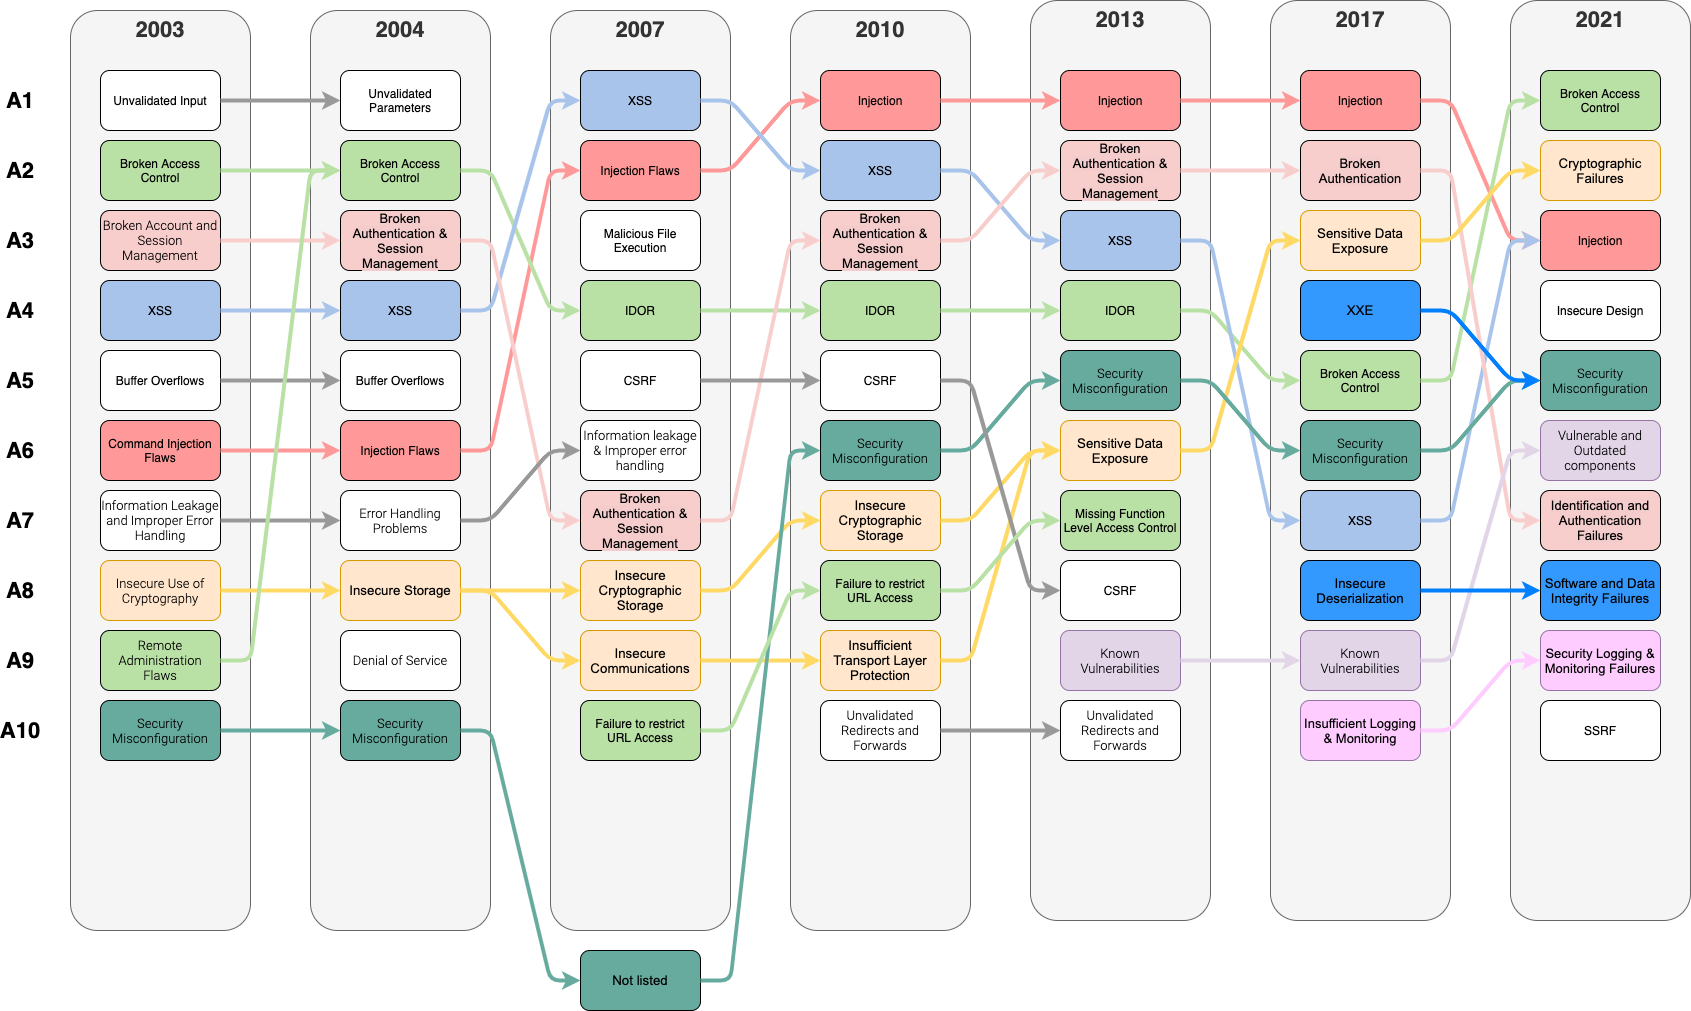
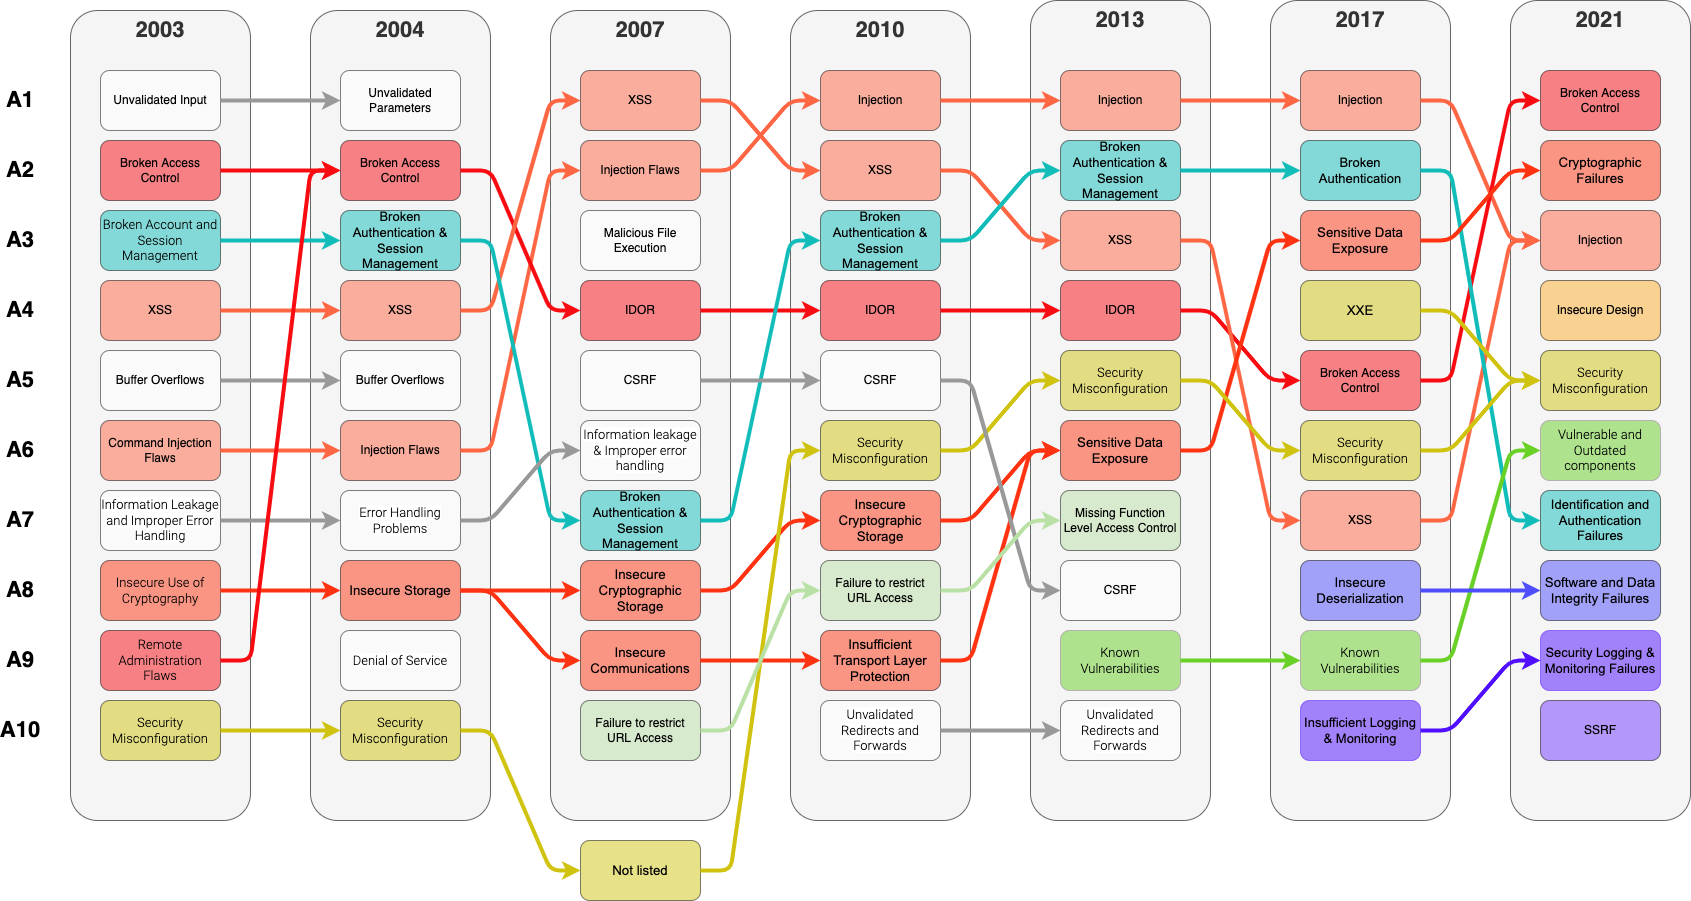
Updates to OWASP Top 10s

diff --git a/defense/owasp/README.md b/defense/owasp/README.md
@@ -2,17 +2,16 @@
 
 For a combined graph overview see [here](graph.md), which includes:
 * OWASP Top 10 [Web Application Security Risks](https://owasp.org/www-project-top-ten/)
-* OWASP Top 10 [Mobile](https://github.com/OWASP/www-project-mobile-top-10)
+* OWASP Top 10 [Mobile](https://owasp.org/www-project-mobile-top-10/2023-risks/) ([GitHub](https://github.com/OWASP/www-project-mobile-top-10/blob/master/2023-risks/index.md))
 * OWASP Top 10 [Proactive Controls](https://owasp.org/www-project-proactive-controls/)
-* OWASP Top 10 [API Security](https://owasp.org/www-project-api-security/)
-* OWASP Top 10 [Kubernetes](https://owasp.org/www-project-kubernetes-top-ten/)
-* OWASP Top 10 [Docker](https://github.com/OWASP/www-project-docker-top-10)
-* OWASP Top 10 [Low Code](https://github.com/OWASP/www-project-top-10-low-code-no-code-security-risks)
-* OWASP Top 10 [CICD](https://github.com/OWASP/www-project-top-10-ci-cd-security-risks)
-* OWASP Top 10 [Thick Client](https://github.com/OWASP/www-project-thick-client-top-10)
-* OWASP Top 10 [Cloud Native Application](https://github.com/OWASP/Cloud-Native-Application-Security-Top-10)
+* OWASP Top 10 [API Security](https://owasp.org/www-project-api-security/) ([GitHub](https://github.com/OWASP/www-project-api-security/blob/master/index.md))
+* OWASP Top 10 [CICD](https://owasp.org/www-project-top-10-ci-cd-security-risks/) ([GitHub](https://github.com/OWASP/www-project-top-10-ci-cd-security-risks))
+* OWASP Top 10 [Kubernetes](https://owasp.org/www-project-kubernetes-top-ten/) ([GitHub](https://github.com/OWASP/www-project-kubernetes-top-ten/blob/main/index.md))
+* OWASP Top 10 [Docker](https://owasp.org/www-project-docker-top-10/) ([GitHub](https://github.com/OWASP/Docker-Security))
+* OWASP Top 10 [Low-Code / No-Code](https://owasp.org/www-project-top-10-low-code-no-code-security-risks/) ([GitHub](https://github.com/OWASP/www-project-top-10-low-code-no-code-security-risks/blob/main/index.md))
+* OWASP Top 10 [Cloud Native Application](https://owasp.org/www-project-cloud-native-application-security-top-10/) ([GitHub](https://github.com/OWASP/Cloud-Native-Application-Security-Top-10))
 * OWASP Top 10 [Serverless](https://github.com/OWASP/Serverless-Top-10-Project)
-* OWASP Top 10 [Low-Code / No-Code](https://owasp.org/www-project-top-10-low-code-no-code-security-risks/)
+* OWASP Top 10 [Thick Client](https://owasp.org/www-project-thick-client-top-10/) ([GitHub](https://github.com/OWASP/www-project-thick-client-top-10))
 * OWASP Top 10 [Card Game](https://github.com/OWASP/www-project-top-10-card-game)
 
 ## OWASP Projects Map
